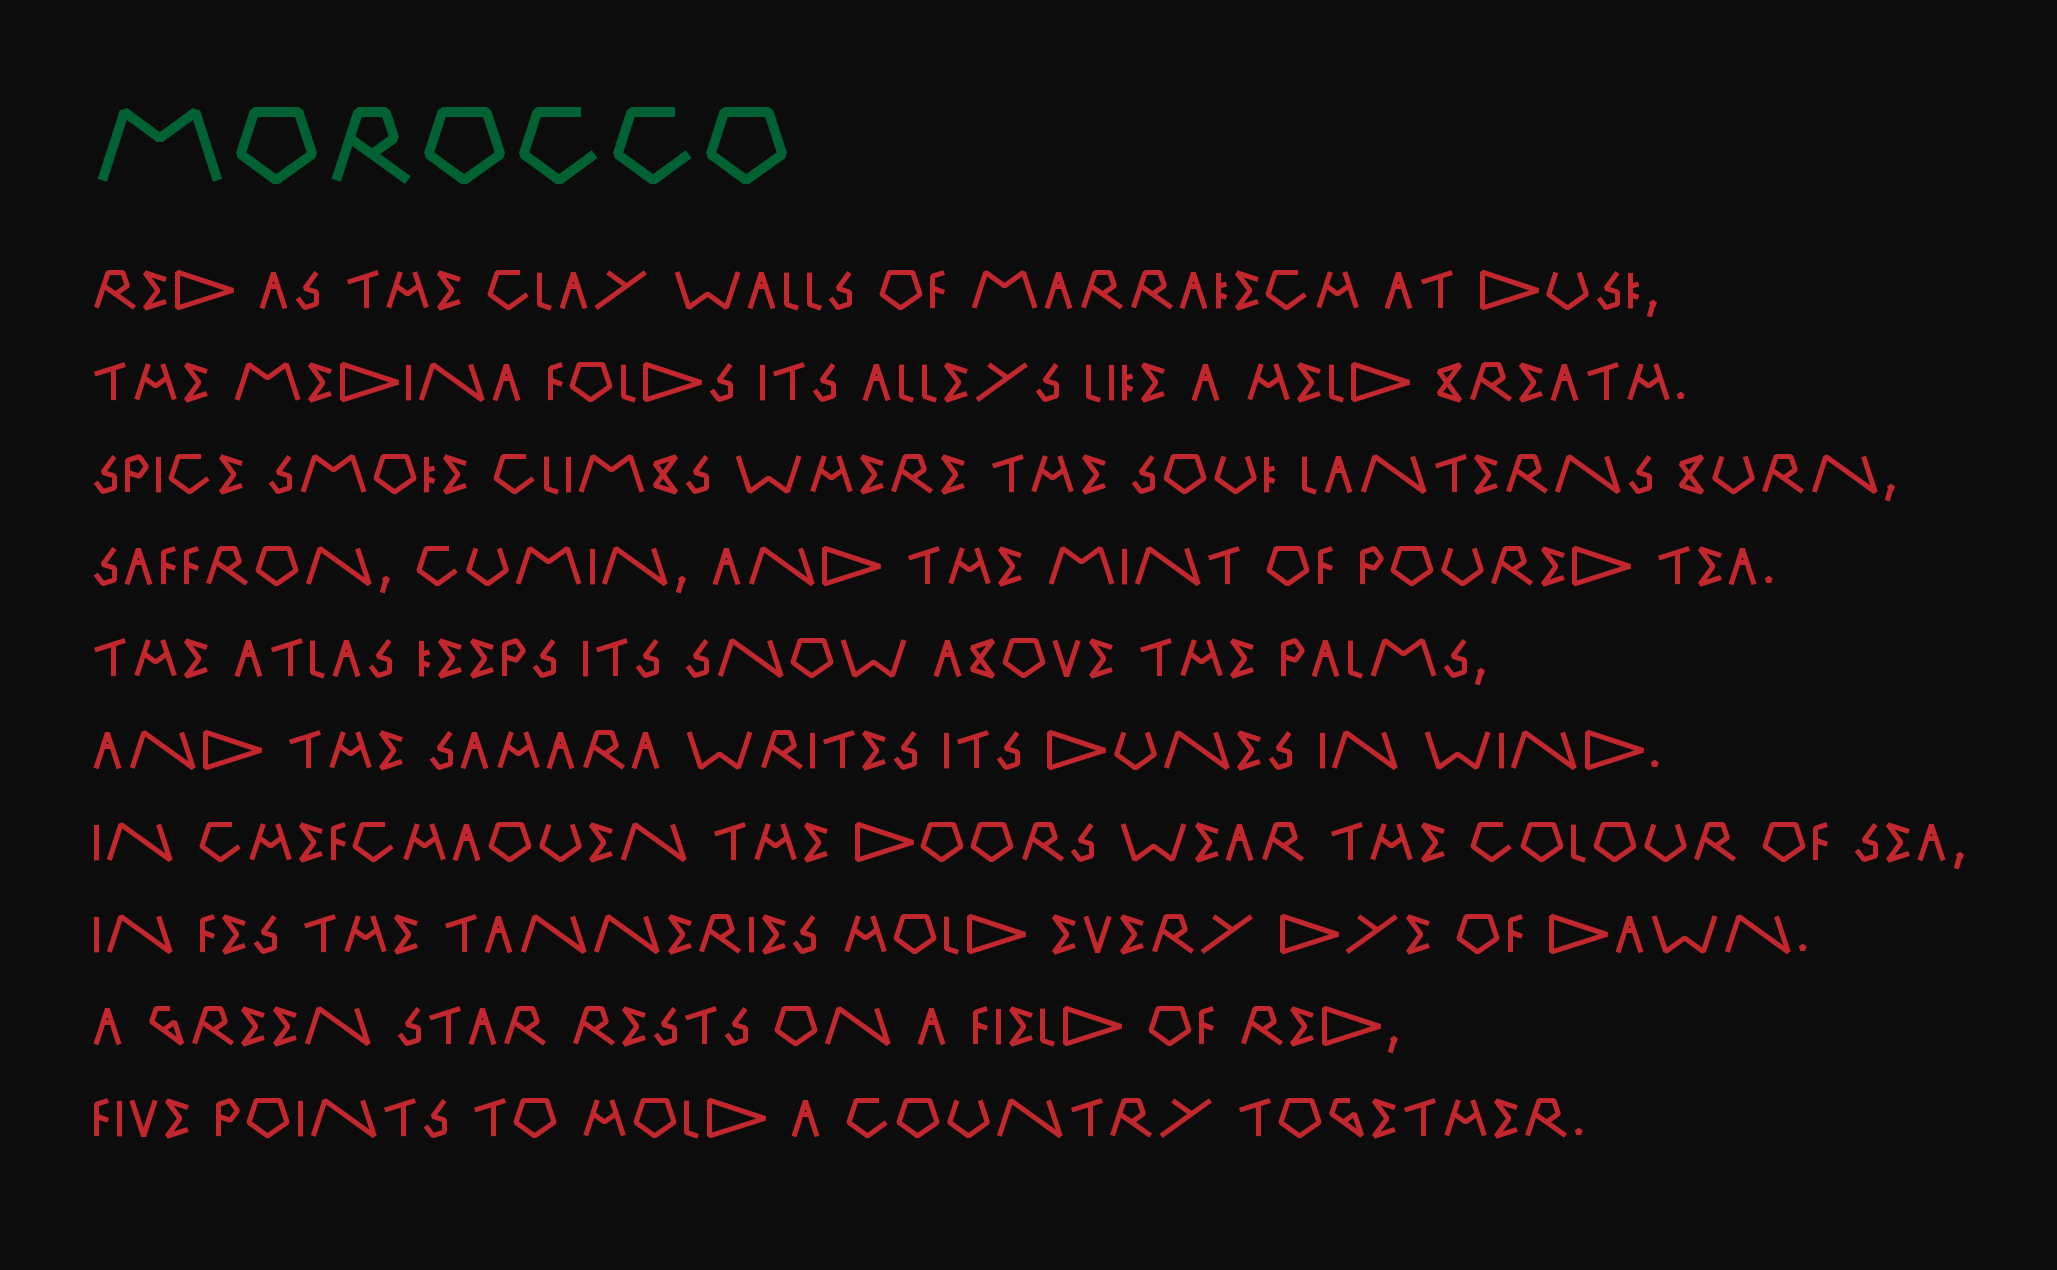
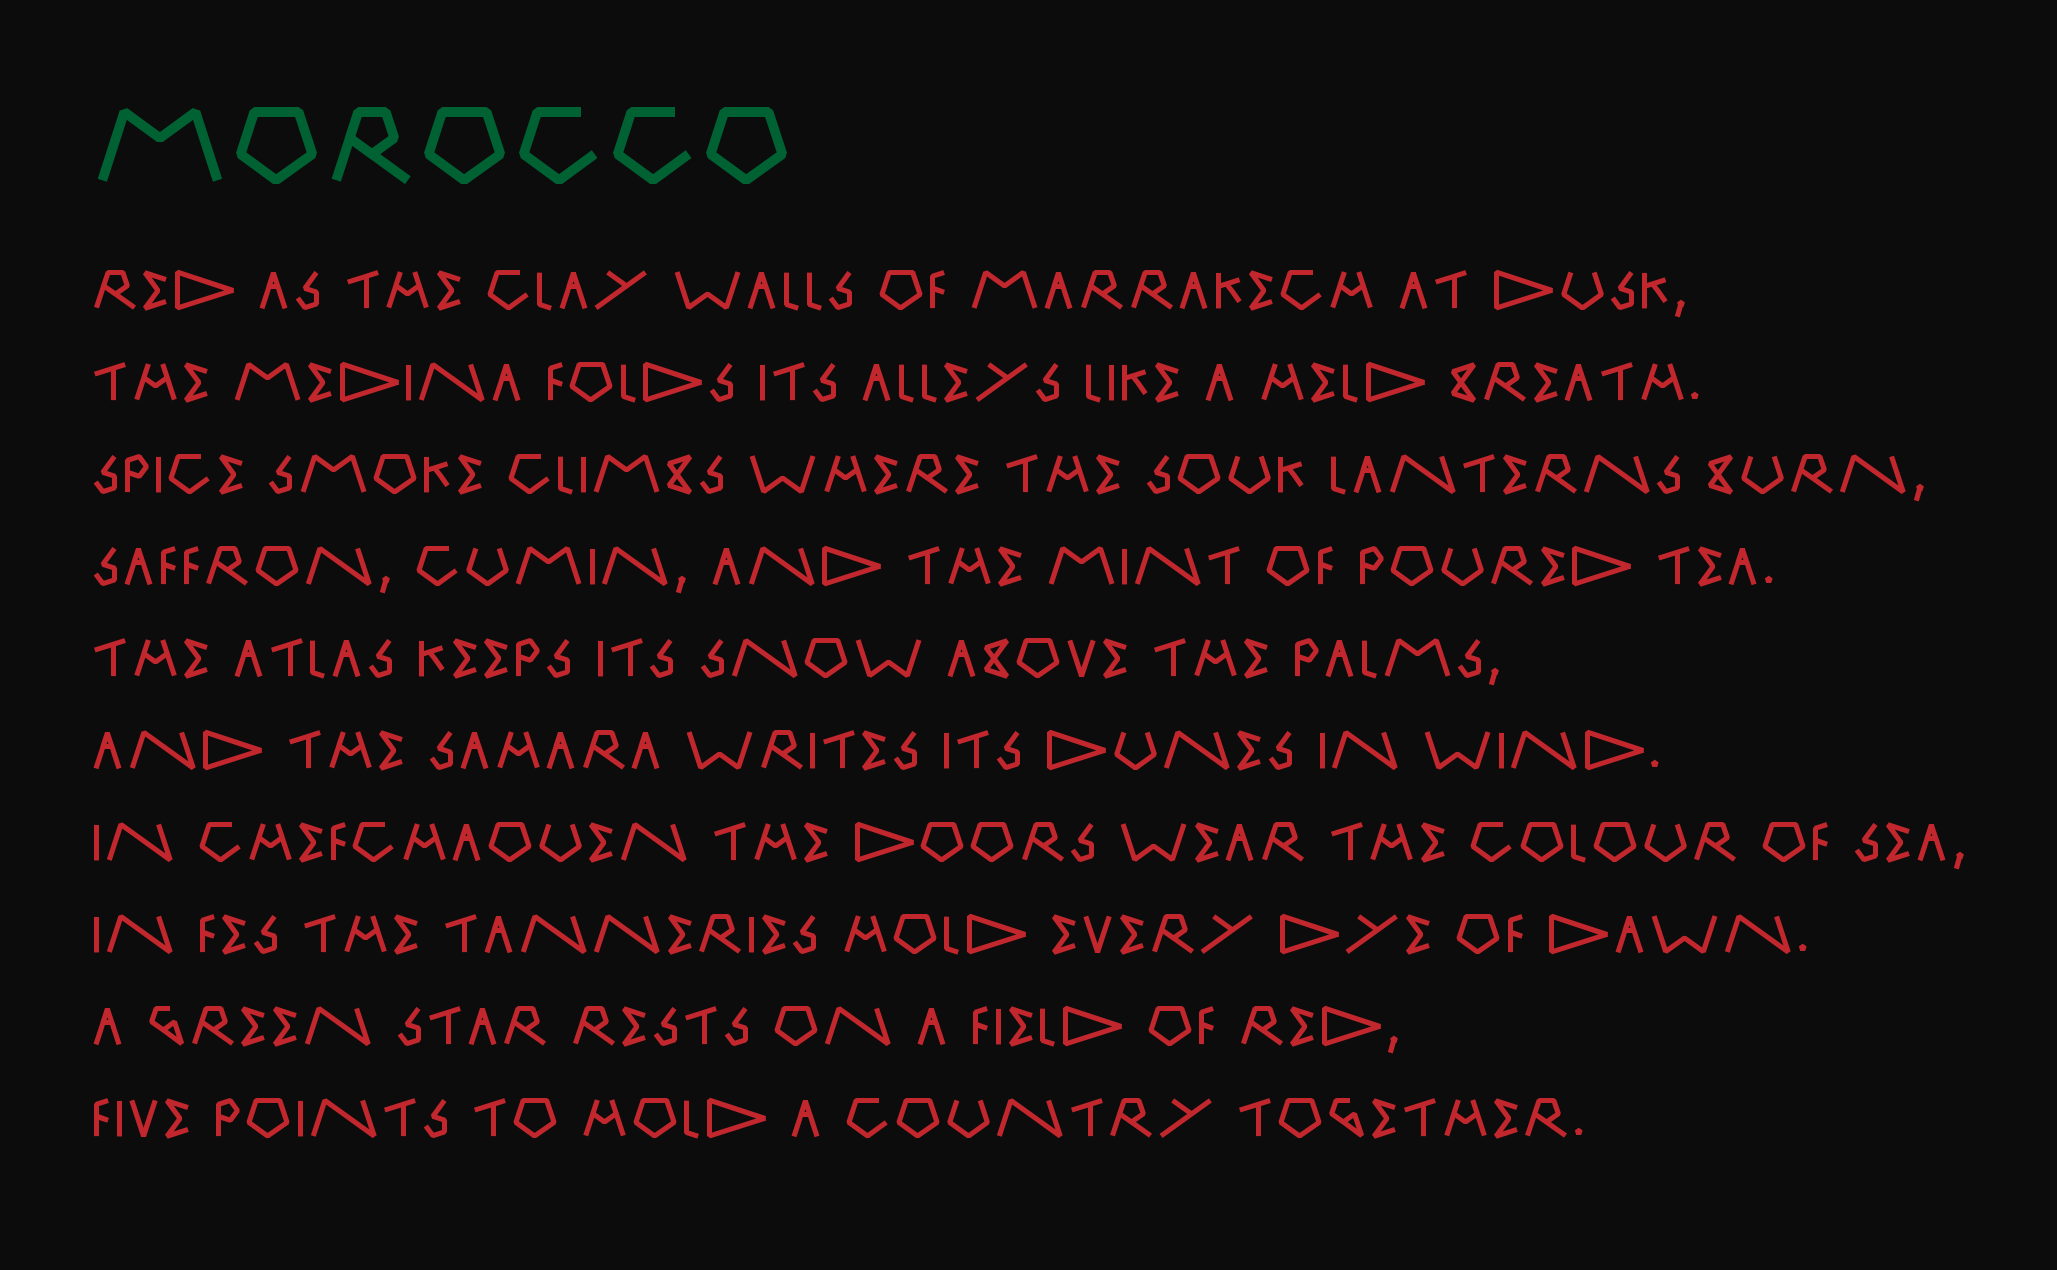
Better d

Changed region(s): [[0.2178, 0.2764, 0.9334, 0.3992], [0.1867, 0.4913, 0.7467, 0.5528], [0.5912, 0.215, 0.8089, 0.2457]]

diff --git a/star_alphabet.py b/star_alphabet.py
@@ -19,7 +19,7 @@ LETTERS = {
     "H": ([5, 13, 4, 3, 2, 10], 0),
     "I": ([6, 5, 13], 18),
     "J": ([7, 2, 3, 4], 0),
-    "K": ([13, 5, 4, 1, 6], 18),
+    "K": ([13, 5, 6, 1, 8, 2, 10], 18),
     "L": ([6, 5, 4], 18),
     "M": ([13, 4, 3, 10], 0),
     "N": ([13, 4, 11, 10], 0),
